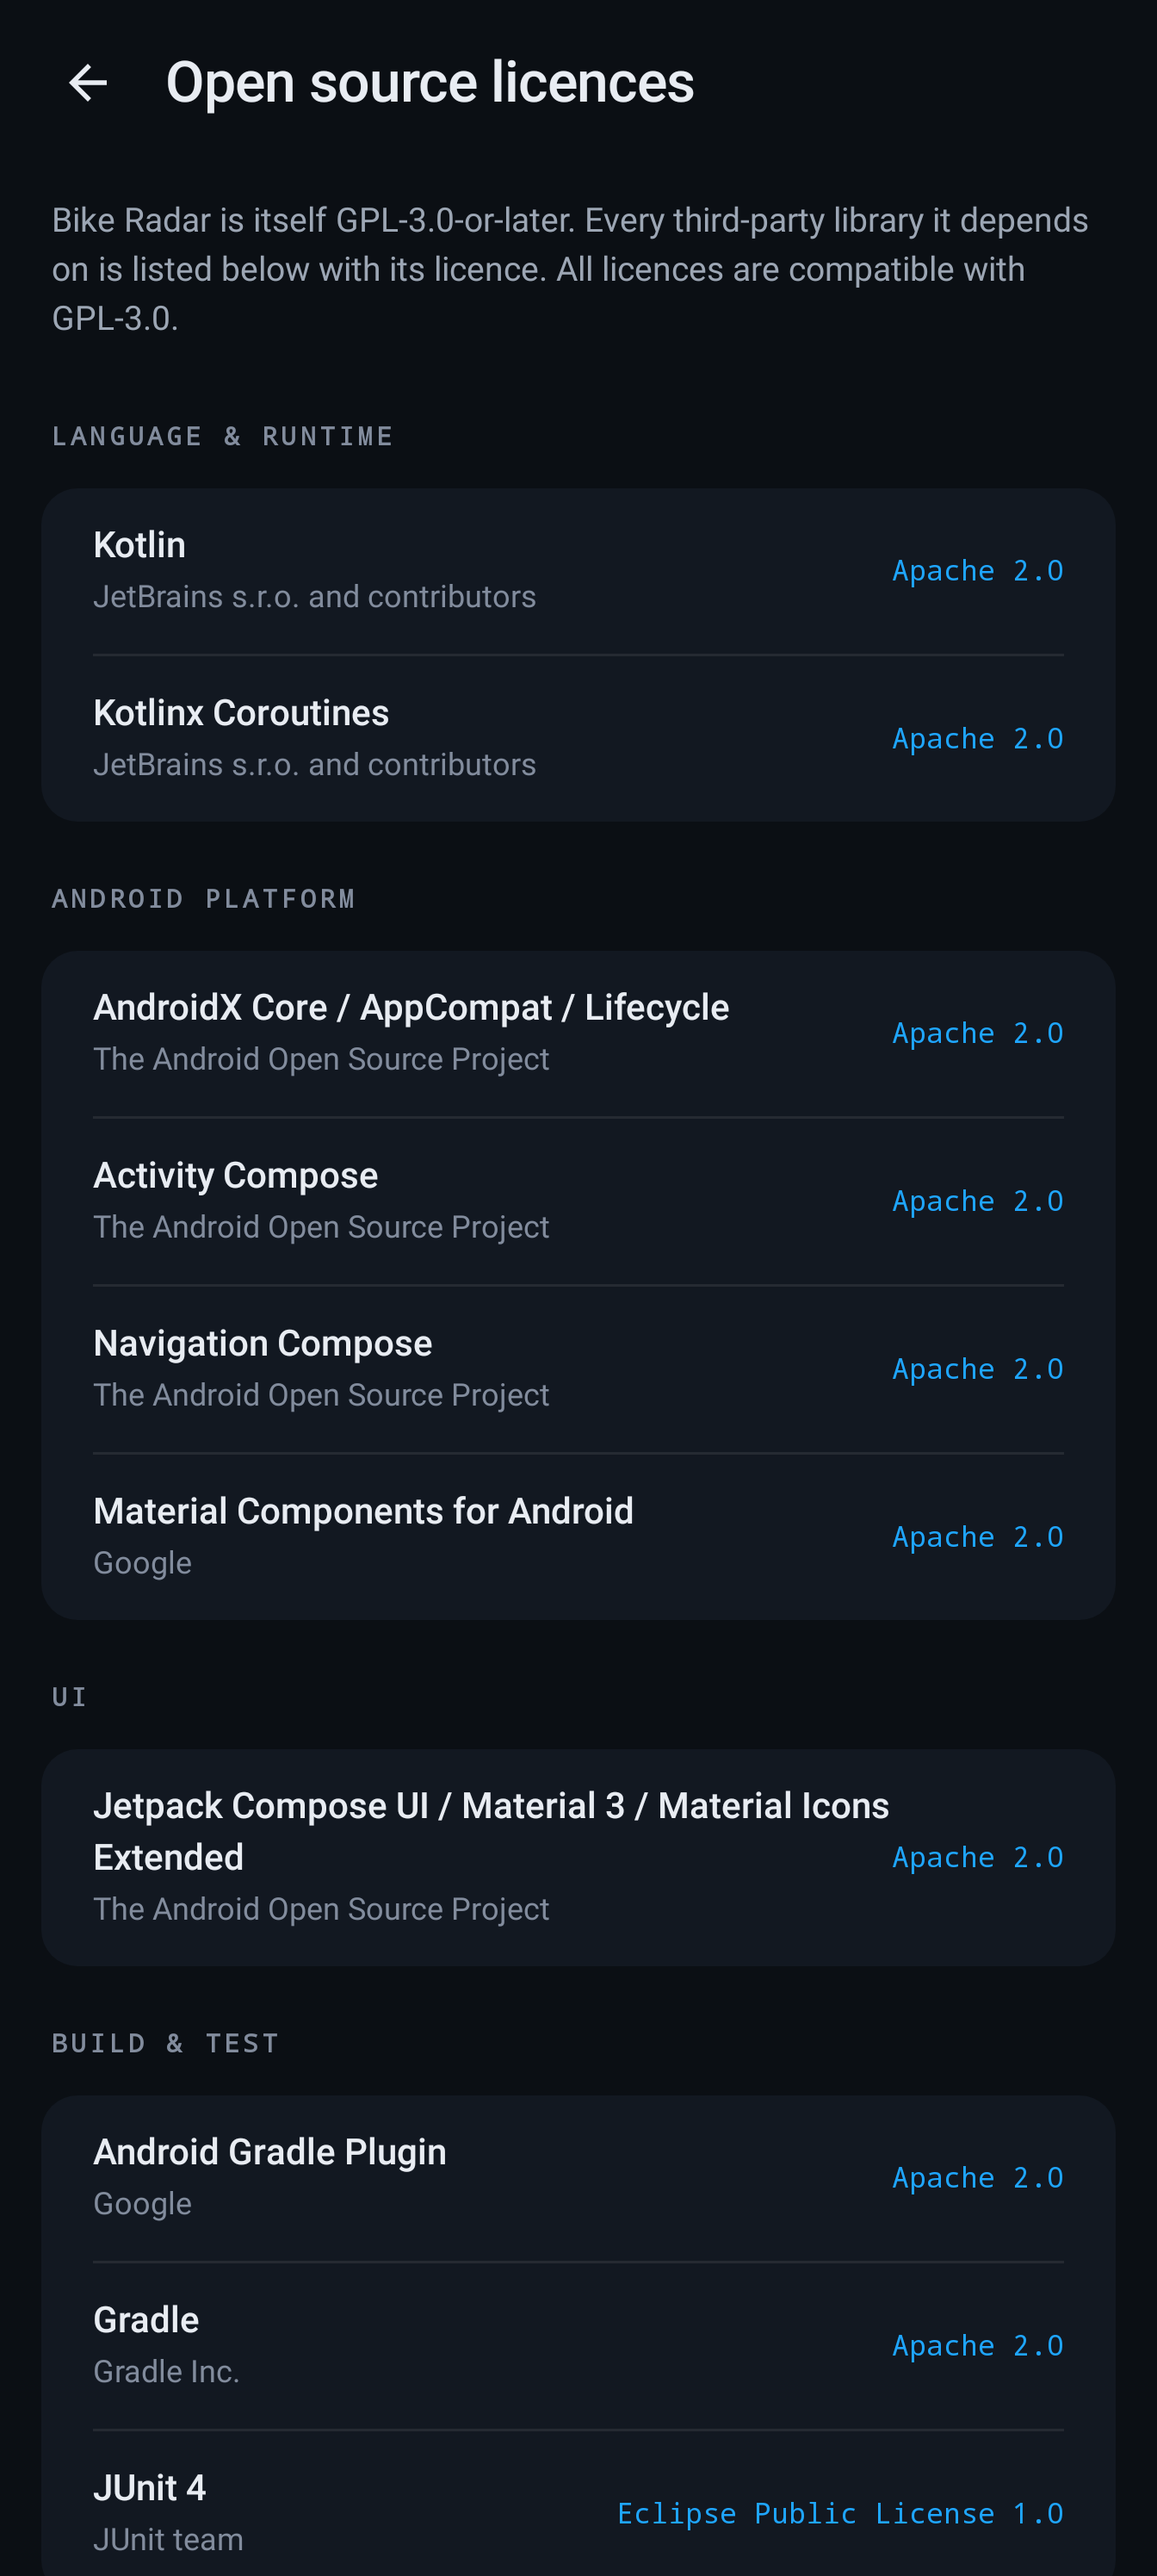
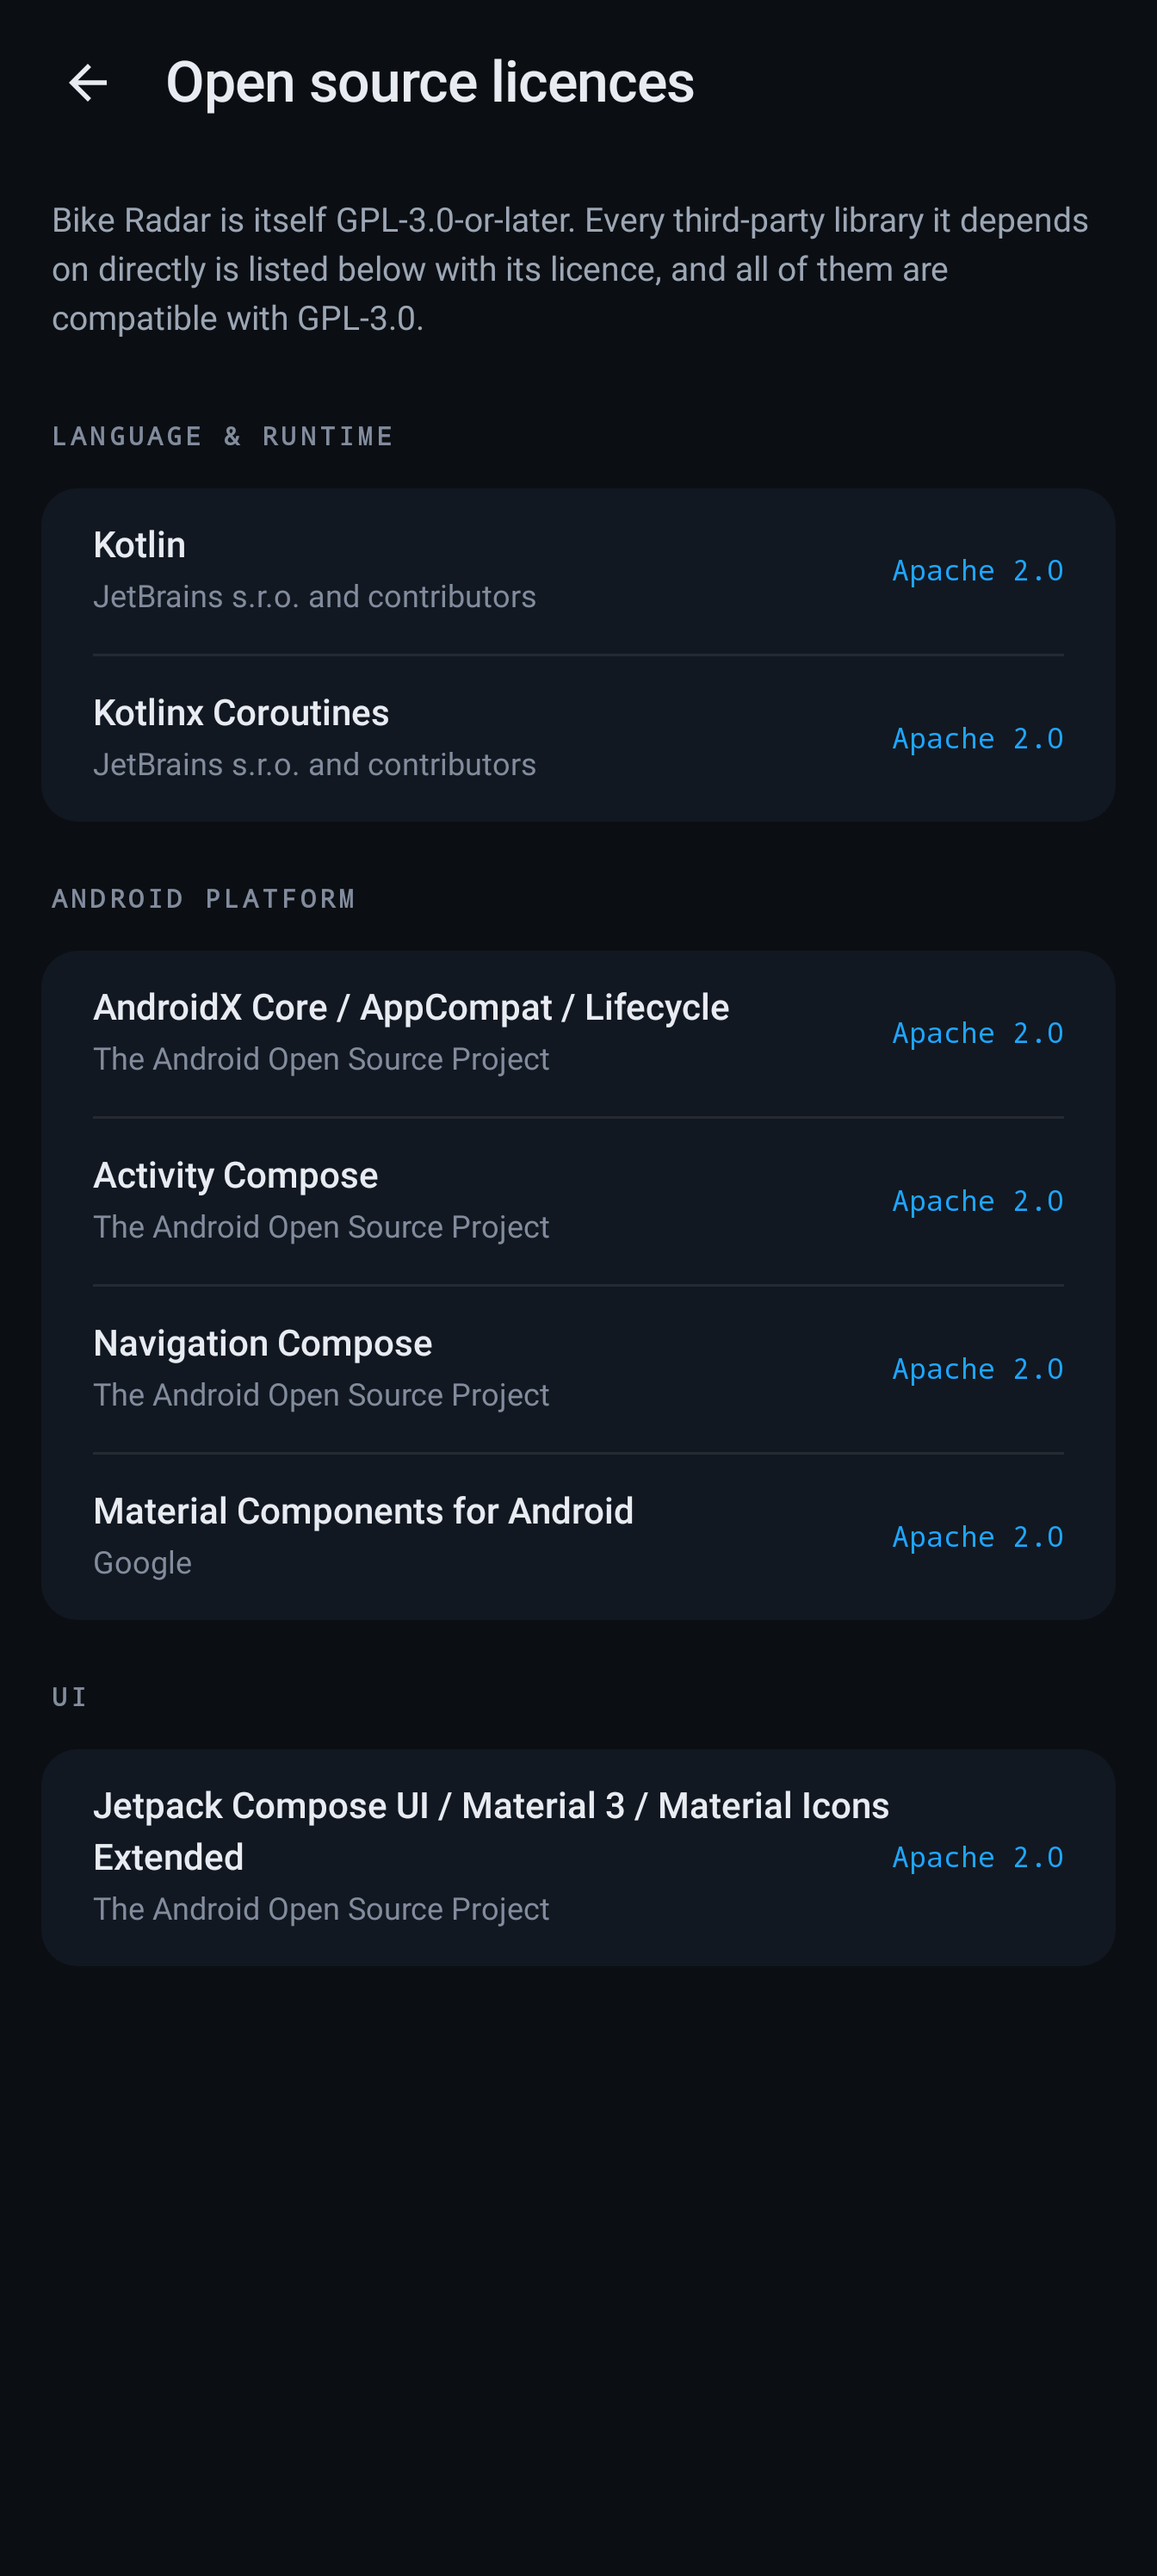
fix(ui): scope the licences claim to direct dependencies
The screen promised the app's whole dependency tree, then listed build
tooling under a claim that every licence is GPL-3.0-compatible. JUnit 4
is EPL 1.0, which the FSF holds GPL-incompatible, so both sentences were
false.

Build and test tools ship in no APK and are gone. The claim now covers
direct dependencies only, and a test pins the list against the build
file's declarations. The APK also packages transitive libraries no entry
names, which is why the wording stops there.

diff --git a/app/src/test/java/es/jjrh/bikeradar/ui/SettingsLicencesCoverageTest.kt b/app/src/test/java/es/jjrh/bikeradar/ui/SettingsLicencesCoverageTest.kt
@@ -1,0 +1,145 @@
+// SPDX-License-Identifier: GPL-3.0-or-later
+package es.jjrh.bikeradar.ui
+
+import org.junit.Assert.assertEquals
+import org.junit.Assert.assertTrue
+import org.junit.Test
+import java.io.File
+
+/**
+ * Guards the two absolute claims the licences screen makes: that every
+ * third-party library the app depends on directly is listed, and that all
+ * of them are compatible with GPL-3.0.
+ *
+ * What it pins is the LIST behind those sentences, checked against the
+ * build file - not the sentences themselves. Reword the string and this
+ * stays green. It earns its place because a hand-curated list under a bot
+ * that raises dependency bumps is exactly where such a claim rots.
+ *
+ * Scope is what `app/build.gradle.kts` declares on a configuration that
+ * reaches a release APK - see the regex below for the exact set;
+ * `debugImplementation`, `testImplementation` and the BOM platform
+ * declaration are not attribution obligations and are deliberately
+ * excluded. Transitive libraries the APK
+ * also packages are OUT of scope here, which is why the screen claims only
+ * direct use - see SettingsLicenses.kt's KDoc.
+ */
+class SettingsLicencesCoverageTest {
+
+    /**
+     * Maps each shipped coordinate to the entry expected to attribute it.
+     * Written out by hand from the licences screen rather than derived from
+     * it, so a wrong entry cannot agree with itself.
+     */
+    private val expectedAttribution = mapOf(
+        "androidx.core:core-ktx" to "AndroidX Core / AppCompat / Lifecycle",
+        "androidx.appcompat:appcompat" to "AndroidX Core / AppCompat / Lifecycle",
+        "androidx.lifecycle:lifecycle-runtime-ktx" to "AndroidX Core / AppCompat / Lifecycle",
+        "androidx.lifecycle:lifecycle-runtime-compose" to "AndroidX Core / AppCompat / Lifecycle",
+        "com.google.android.material:material" to "Material Components for Android",
+        "org.jetbrains.kotlinx:kotlinx-coroutines-android" to "Kotlinx Coroutines",
+        "androidx.activity:activity-compose" to "Activity Compose",
+        "androidx.navigation:navigation-compose" to "Navigation Compose",
+        "androidx.compose.ui:ui" to "Jetpack Compose UI / Material 3 / Material Icons Extended",
+        "androidx.compose.ui:ui-tooling-preview" to "Jetpack Compose UI / Material 3 / Material Icons Extended",
+        "androidx.compose.material3:material3" to "Jetpack Compose UI / Material 3 / Material Icons Extended",
+        "androidx.compose.material:material-icons-extended" to "Jetpack Compose UI / Material 3 / Material Icons Extended",
+    )
+
+    /**
+     * A vetted allow-list, NOT the set of GPL-3.0-compatible licences. It
+     * fails closed: a genuinely compatible licence such as MIT reds this
+     * test until someone checks it against the FSF list and adds it. The
+     * FSF holds Apache 2.0 compatible with GPLv3, and holds EPL 1.0 and
+     * CPL 1.0 incompatible - which is why build and test tooling has no
+     * place on a screen that claims compatibility.
+     */
+    private val vettedGplV3CompatibleLicences = setOf("Apache 2.0")
+
+    private fun shippedCoordinates(): List<String> {
+        // Module path first: a root `build.gradle.kts` also exists, so probing
+        // the bare name first picks it whenever the working directory is the
+        // repo root, and it declares no dependencies at all.
+        val gradle = listOf(File("app/build.gradle.kts"), File("build.gradle.kts"))
+            .firstOrNull { it.exists() }
+            ?: error("could not locate the module build file from ${File(".").absolutePath}")
+        // `coreLibraryDesugaring` is in the list because its payload is
+        // GPL-2.0-with-Classpath-Exception, not Apache 2.0: enabling it would
+        // ship a licence this screen does not list, under a sentence saying
+        // every one of them is compatible. `api` ships the same as
+        // `implementation` and differs only in what it exposes to consumers.
+        return Regex(
+            """^\s*(?:implementation|api|coreLibraryDesugaring)\("([^"]+)"\)""",
+            RegexOption.MULTILINE,
+        )
+            .findAll(gradle.readText())
+            .map { withoutVersion(it.groupValues[1]) }
+            .toList()
+    }
+
+    /** Compose artifacts take their version from the BOM and carry none here. */
+    private fun withoutVersion(coordinate: String): String {
+        val parts = coordinate.split(':')
+        return if (parts.size >= 3) "${parts[0]}:${parts[1]}" else coordinate
+    }
+
+    private fun screenEntries() = LANGUAGE_RUNTIME_LICENCES + ANDROID_PLATFORM_LICENCES + UI_LICENCES
+
+    @Test
+    fun everyShippedDependencyIsAttributedOnTheLicencesScreen() {
+        val listed = screenEntries().map { it.name }.toSet()
+        val unattributed = shippedCoordinates().filter { coordinate ->
+            expectedAttribution[coordinate]?.let { it !in listed } ?: true
+        }
+        assertEquals(
+            "every implementation dependency ships in the APK and must be attributed on the " +
+                "licences screen, whose intro promises the list covers every direct dependency",
+            emptyList<String>(),
+            unattributed,
+        )
+    }
+
+    @Test
+    fun theBuildFileDeclaresNoShippedDependencyTheTestDoesNotKnowAbout() {
+        assertEquals(
+            "a shipped dependency was added or renamed; map it to its licence entry",
+            emptySet<String>(),
+            shippedCoordinates().toSet() - expectedAttribution.keys,
+        )
+    }
+
+    @Test
+    fun theRegexStillSeesEveryDeclaredDependency() {
+        // Every other test here passes on an empty list, so anything that
+        // stops the regex matching - a wrapped declaration, a version
+        // catalog, or reading the root build file from the wrong working
+        // directory - would unpin the screen's claim while staying green.
+        // Measured against a wrapped `implementation(` declaration, which
+        // survives all four of the other tests.
+        assertEquals(
+            "the build file's directly-declared dependency count changed; " +
+                "update this count and the attribution map together",
+            12,
+            shippedCoordinates().size,
+        )
+    }
+
+    @Test
+    fun noListedLicenceIsIncompatibleWithGpl3() {
+        val incompatible = screenEntries().filterNot { it.licence in vettedGplV3CompatibleLicences }
+        assertEquals(
+            "the screen states every listed licence is compatible with GPL-3.0; this licence " +
+                "is not on the vetted allow-list, so check it against the FSF list and add it there",
+            emptyList<LicenseEntry>(),
+            incompatible,
+        )
+    }
+
+    @Test
+    fun everyListedEntryNamesAnAuthorAndALicence() {
+        assertTrue(
+            "an attribution with a blank author or licence is not an attribution",
+            screenEntries().all { it.name.isNotBlank() && it.author.isNotBlank() && it.licence.isNotBlank() },
+        )
+    }
+}

diff --git a/app/src/main/java/es/jjrh/bikeradar/ui/SettingsLicenses.kt b/app/src/main/java/es/jjrh/bikeradar/ui/SettingsLicenses.kt
@@ -29,12 +29,31 @@ import androidx.navigation.NavController
 import es.jjrh.bikeradar.R
 
 /**
- * Open-source licences for the dependencies the app ships with. Hand-
+ * Open-source licences for the app's direct dependencies. Hand-
  * curated rather than via Google's `OssLicensesPlugin` because adding
  * the plugin pulls Play Services as a transitive dependency, which is
  * something an open-source app deliberately avoiding tracking should
  * not be doing. The list below mirrors `app/build.gradle.kts`'s
  * implementation deps, plus the language and platform.
+ *
+ * Scope is the app's DIRECT dependencies, and the screen says so. Build and
+ * test tooling is absent because it is never combined into the distributed
+ * work, and listing it would put the screen's own "all compatible with
+ * GPL-3.0" claim in the wrong - JUnit 4 is EPL 1.0, which the FSF holds
+ * GPL-incompatible.
+ *
+ * `SettingsLicencesCoverageTest` pins both halves of the claim, but only
+ * over what `app/build.gradle.kts` DECLARES, and only over the lists
+ * below - an entry added inline in the composable body would render
+ * unchecked. The APK also packages transitive libraries no entry names:
+ * androidx.emoji2, recyclerview and kotlinx-serialization among them. So
+ * do NOT widen the wording to everything the app ships, which is a claim
+ * nothing here can back.
+ *
+ * Closing that gap needs the built artifact, not a longer hand-curated
+ * list. Note the obvious route is only a partial one: the per-library
+ * version files AGP packages into META-INF cover AndroidX-style libraries
+ * and miss others, kotlinx-serialization included.
  */
 @Composable
 fun SettingsLicenses(navController: NavController) {
@@ -61,45 +80,36 @@ private fun SettingsLicensesBody(navController: NavController) {
             )
 
             SettingsSectionLabel(stringResource(R.string.settings_licenses_section_language_runtime))
-            LicenseGroup(
-                listOf(
-                    LicenseEntry("Kotlin", "JetBrains s.r.o. and contributors", "Apache 2.0"),
-                    LicenseEntry("Kotlinx Coroutines", "JetBrains s.r.o. and contributors", "Apache 2.0"),
-                ),
-            )
+            LicenseGroup(LANGUAGE_RUNTIME_LICENCES)
 
             SettingsSectionLabel(stringResource(R.string.settings_licenses_section_android_platform))
-            LicenseGroup(
-                listOf(
-                    LicenseEntry("AndroidX Core / AppCompat / Lifecycle", "The Android Open Source Project", "Apache 2.0"),
-                    LicenseEntry("Activity Compose", "The Android Open Source Project", "Apache 2.0"),
-                    LicenseEntry("Navigation Compose", "The Android Open Source Project", "Apache 2.0"),
-                    LicenseEntry("Material Components for Android", "Google", "Apache 2.0"),
-                ),
-            )
+            LicenseGroup(ANDROID_PLATFORM_LICENCES)
 
             SettingsSectionLabel(stringResource(R.string.settings_licenses_section_ui))
-            LicenseGroup(
-                listOf(
-                    LicenseEntry("Jetpack Compose UI / Material 3 / Material Icons Extended", "The Android Open Source Project", "Apache 2.0"),
-                ),
-            )
-
-            SettingsSectionLabel(stringResource(R.string.settings_licenses_section_build_test))
-            LicenseGroup(
-                listOf(
-                    LicenseEntry("Android Gradle Plugin", "Google", "Apache 2.0"),
-                    LicenseEntry("Gradle", "Gradle Inc.", "Apache 2.0"),
-                    LicenseEntry("JUnit 4", "JUnit team", "Eclipse Public License 1.0"),
-                ),
-            )
+            LicenseGroup(UI_LICENCES)
 
             Spacer(modifier = Modifier.height(28.dp))
         }
     }
 }
 
-private data class LicenseEntry(val name: String, val author: String, val licence: String)
+internal data class LicenseEntry(val name: String, val author: String, val licence: String)
+
+internal val LANGUAGE_RUNTIME_LICENCES = listOf(
+    LicenseEntry("Kotlin", "JetBrains s.r.o. and contributors", "Apache 2.0"),
+    LicenseEntry("Kotlinx Coroutines", "JetBrains s.r.o. and contributors", "Apache 2.0"),
+)
+
+internal val ANDROID_PLATFORM_LICENCES = listOf(
+    LicenseEntry("AndroidX Core / AppCompat / Lifecycle", "The Android Open Source Project", "Apache 2.0"),
+    LicenseEntry("Activity Compose", "The Android Open Source Project", "Apache 2.0"),
+    LicenseEntry("Navigation Compose", "The Android Open Source Project", "Apache 2.0"),
+    LicenseEntry("Material Components for Android", "Google", "Apache 2.0"),
+)
+
+internal val UI_LICENCES = listOf(
+    LicenseEntry("Jetpack Compose UI / Material 3 / Material Icons Extended", "The Android Open Source Project", "Apache 2.0"),
+)
 
 @Composable
 private fun LicenseGroup(entries: List<LicenseEntry>) {
